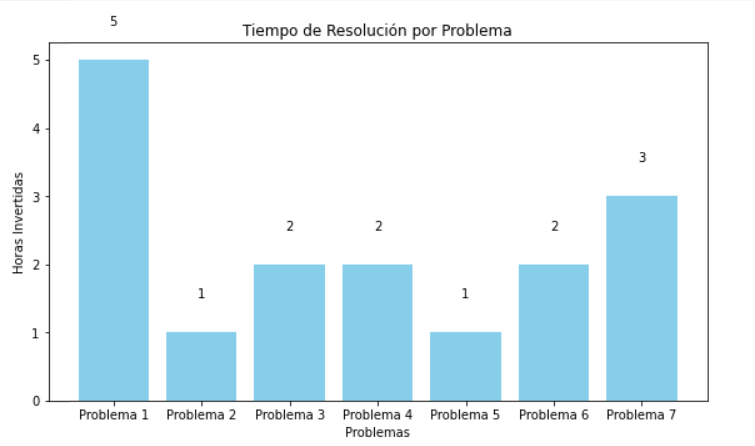
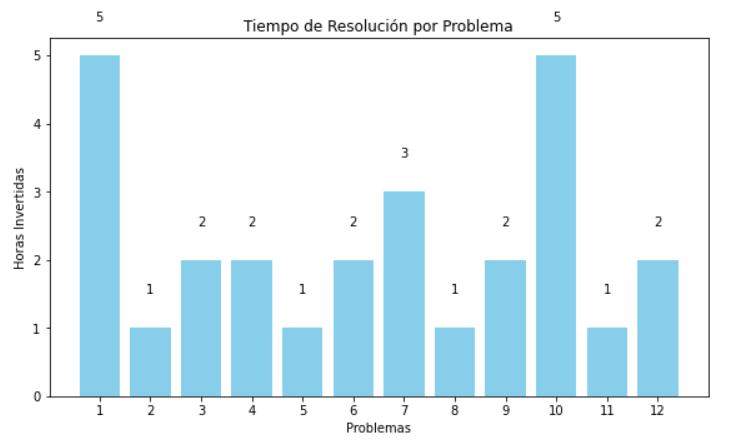
docs: actualizar problems.md

diff --git a/docs/S3/Problems/problems.md b/docs/S3/Problems/problems.md
@@ -23,7 +23,7 @@
 - Sergio Pons López
 - Lorenzo Torralba Lanzas
 
-### Fecha: 09/04/2025
+### Fecha: 10/04/2025
 
 ### Entregable: Sprint 3
 
@@ -40,6 +40,7 @@
 | 25/03/2025 | v1.4    | Redacción del problema 5 | Sprint 2 | Héctor Noguera González |
 | 02/04/2025 | v1.5    | Redacción del problema 6 y 7 | Sprint 3 | Héctor Noguera González |
 | 09/04/2025 | v1.6    | Redacción del problema 8 y 9 | Sprint 3 | Héctor Noguera González |
+| 10/04/2025 | v1.7    | Redacción del problema 10, 11 y 12 | Sprint 3 | Héctor Noguera González |
 
 ---
 
@@ -54,9 +55,12 @@
 8. [Problema 7: Inconsistencias en la ejecución del backend debido al límite de tamaño de fila en la base de datos](#id7)
 9. [Problema 8: Caída del despliegue en Google Cloud por falta de créditos](#id8)
 10. [Problema 9: Imposibilidad de rellenar invitaciones tras mejora en la seguridad del sistema](#id9)
-11. [Rendimiento y Evaluación de Acciones](#Rendimiento)
-12. [Conclusiones](#conclusiones)
-13. [Bibliografía](#bib)
+11. [Problema 10: Seguridad deficiente en rutas internas de la aplicación](#id10)
+12. [Problema 11: Tareas no movidas a "Done" en el Kanban de GitHub Projects](#id11)
+13. [Problema 12: Retrasos en la documentación general del proyecto](#id12)
+14. [Rendimiento y Evaluación de Acciones](#Rendimiento)
+15. [Conclusiones](#conclusiones)
+16. [Bibliografía](#bib)
 
 
 <div id='intro'></div>
@@ -373,6 +377,122 @@ El mismo 07/04/2025, tras identificar el problema y aplicar la solución corresp
 ## ¿Están funcionando las cosas?
 
 Sí, tras aplicar el DTO y eliminar la validación de usuario del método GET, el sistema volvió a permitir el acceso público a los datos necesarios para rellenar una invitación.
+
+<div id='id10'></div>
+
+## Problema 10: Seguridad deficiente en rutas internas de la aplicación
+
+## Trazabilidad del problema 
+
+Durante la primera semana del Sprint 3, se detectó que múltiples rutas internas de la aplicación estaban expuestas sin una configuración adecuada de seguridad. Esto permitía que usuarios no autenticados pudieran acceder a endpoints que deberían estar restringidos, representando un riesgo significativo para la integridad y confidencialidad de los datos.
+
+El problema fue identificado tras una revisión exhaustiva del comportamiento de los endpoints por parte del de código. Se descubrió que muchas clases Java responsables del manejo de rutas no estaban adecuadamente protegidas en la configuración de seguridad, lo cual facilitaba el acceso indebido a funciones críticas del sistema.
+
+El equipo procedió a revisar la configuración de seguridad general definida en SecurityConfig y también a reforzar la seguridad directamente en las clases Java correspondientes, asegurando que cada endpoint tuviera sus restricciones adecuadamente definidas (roles, permisos, autenticación).
+
+## Acciones concretas tomadas
+
+Identificación de rutas vulnerables accesibles sin autenticación.
+
+Refuerzo de la seguridad en la clase SecurityConfig y en las clases Java correspondientes.
+
+Definición clara de roles y permisos para cada endpoint.
+
+Pruebas de acceso y validación post-cambio para asegurar que las rutas protegidas ya no son accesibles sin permisos.
+
+## Cómo saber si está funcionando 
+
+Las rutas críticas de la aplicación deben ser accesibles únicamente con las credenciales y permisos adecuados. Los intentos de acceso no autorizados deben devolver errores 403 (Forbidden)
+
+## Objetivo
+
+Proteger los endpoints sensibles del sistema asegurando que solo usuarios autenticados y con permisos adecuados puedan acceder a ellos, minimizando los riesgos de exposición de datos o funciones.
+
+## Cuándo se espera alcanzar el objetivo
+
+Durante la segunda semana del Sprint 3, una vez aplicadas y verificadas todas las modificaciones en las configuraciones de seguridad.
+
+## ¿Están funcionando las cosas?
+
+Sí, tras aplicar los cambios tanto en SecurityConfig como en las clases específicas, todas las rutas sensibles están ahora protegidas correctamente. Las pruebas posteriores confirmaron que los accesos no autorizados están siendo bloqueados como se esperaba.
+
+<div id='id11'></div>
+
+## Problema 11: Tareas no movidas a "Done" en el Kanban de GitHub Projects
+
+## Trazabilidad del problema
+
+Durante el desarrollo del Sprint 3, se observó que varias tareas completadas no estaban siendo movidas a la columna "Done" del tablero Kanban de GitHub Projects. Esto generaba una visión distorsionada del avance real del proyecto, afectando tanto la planificación como el seguimiento del sprint.
+
+El problema fue identificado en las reuniones de revisión diaria, donde el equipo notó discrepancias entre las tareas completadas en código y el estado visual del tablero. Algunas tareas incluso permanecían en "In Progress" o "To Review", a pesar de haber sido integradas y desplegadas correctamente.
+
+Tras discutir el tema en una retrospectiva, se concluyó que esto se debía a la falta de una práctica clara y compartida sobre el mantenimiento del tablero. Se acordó que, a partir de ahora, el responsable de la tarea debe moverla a "Done" una vez que haya sido revisada e integrada.
+
+Actualmente se está haciendo seguimiento del cumplimiento de esta dinámica para asegurarse de que la buena práctica se mantenga.
+
+## Acciones concretas tomadas
+
+Identificación del problema durante las reuniones.
+
+Discusión en retrospectiva para alinear criterios de gestión del tablero.
+
+Seguimiento activo para reforzar la práctica.
+
+## Cómo saber si está funcionando
+
+El tablero debe reflejar con precisión el estado real de las tareas. Todas las tareas completadas deben estar en la columna "Done" al finalizar el día.
+
+## Objetivo
+
+Mantener un tablero Kanban actualizado y alineado con el estado real del proyecto, facilitando la gestión visual del sprint.
+
+## Cuándo se espera alcanzar el objetivo
+
+A partir del acuerdo en la retrospectiva del Sprint 2. Actualmente en seguimiento
+
+## ¿Están funcionando las cosas?
+
+Sí, se está realizando un seguimiento constante y el equipo ha comenzado a adoptar la práctica de mover las tareas a "Done" correctamente.
+
+<div id='id12'></div>
+
+## Problema 12: Retrasos en la documentación general del proyecto
+
+## Trazabilidad del problema
+
+Durante el Sprint 2 se identificaron retrasos en la elaboración y actualización de la documentación general del proyecto.
+
+El problema fue detectado en reuniones de seguimiento y en la retrospectiva del sprint, donde se evidenció que gran parte de la carga documental estaba recayendo en muy pocas personas, y no se había previsto una estrategia clara para repartir esa responsabilidad.
+
+Como respuesta, se decidió fragmentar y distribuir de manera más equitativa las tareas de documentación entre los miembros del equipo.
+
+Desde entonces, el equipo está haciendo seguimiento del cumplimiento de esta dinámica, revisándola en los dailies.
+
+## Acciones concretas tomadas
+
+Identificación del problema durante el Sprint 2.
+
+Discusión del tema en la retrospectiva.
+
+Distribución equitativa de las tareas de documentación general.
+
+Seguimiento activo en las reuniones.
+
+## Cómo saber si está funcionando
+
+La documentación debe estar actualizada y disponible antes de finalizar la semana.
+
+## Objetivo
+
+Asegurar que toda la información relevante del proyecto esté registrada, accesible y actualizada, permitiendo una mejor coordinación y continuidad del trabajo.
+
+## Cuándo se espera alcanzar el objetivo
+
+Desde el final del Sprint 2. Actualmente en seguimiento durante el Sprint 3.
+
+## ¿Están funcionando las cosas?
+
+Sí, se ha empezado a notar una mejora en la puntualidad y distribución de la documentación. El seguimiento diario ha ayudado a reforzar el compromiso del equipo.
 
 <div id='Rendimiento'></div>
 
